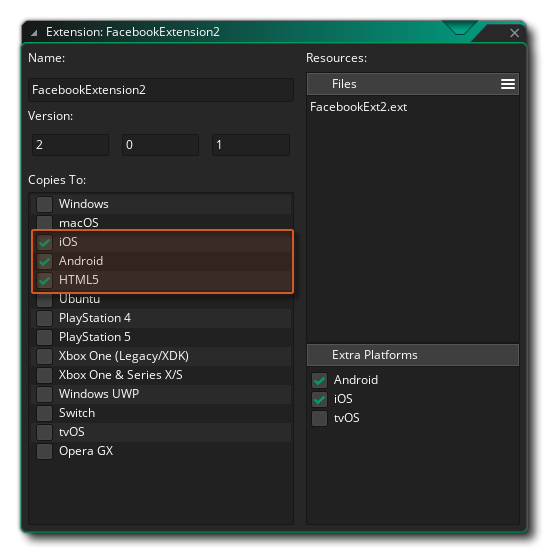
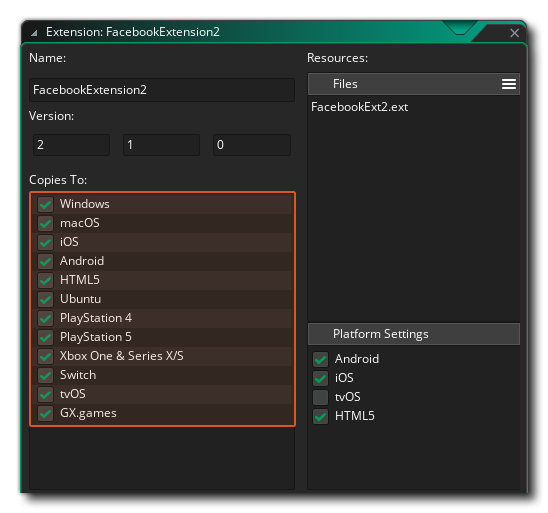
docs(general): Fixes and screenshot updates
* Login Guide page: Added more information on SDK login
* Updated Setup Guide screenshots
* Other small fixes

diff --git a/docs/documentation.js b/docs/documentation.js
@@ -10,7 +10,7 @@
  * 
  * [[Note: This function is only supported on Android, iOS and HTML5.]]
  * 
- * [[Note: If your app asks for more than the default public profile fields and email, Facebook must review it before you release it. See [App Review]](https://developers.facebook.com/docs/resp-plat-initiatives/individual-processes/app-review).]]
+ * [[Note: If your app asks for more than the default public profile fields and email, Facebook must review it before you release it. See [App Review](https://developers.facebook.com/docs/resp-plat-initiatives/individual-processes/app-review).]]
  * 
  * @param {ds_list} permissions The permissions to request
  * 

diff --git a/docs/guide_login.md b/docs/guide_login.md
@@ -8,7 +8,20 @@ The Login functionality of the Facebook extension is supported on all platforms 
 
 ### Android, iOS and HTML5
 
-> https://developers.facebook.com/docs/development/create-an-app/facebook-login-for-games-use-case
+The following page of the Facebook developer documentation describes how to create a Facebook app and set it up to use the login functionality:
+
+> [Facebook Login Use Case](https://developers.facebook.com/docs/development/create-an-app/facebook-login-for-games-use-case)
+
+Once you've set up the app in the App Dashboard you can add code to your project for the login functionality. On the platforms supported by the SDK, you can use the function ${function.fb_login}:
+
+```gml
+var _permissions = ds_list_create();
+ds_list_add(perms, "public_profile", "user_friends");
+fb_login(real(_permissions));
+ds_list_destroy(_permissions);
+```
+
+This function will bring up a login dialog. A ${event.social} is then triggered which provides information about the result.
 
 ### OAuth
 
@@ -42,7 +55,7 @@ if (async_load[? "type"] == "fb_login_oauth") {
 ```
 
 The ${event.social} indicates that the dialog has been invoked. From here on, you can check with your own server periodically to see if it has the token.
-This can be done by, e.g., triggering a ${var.alarm} after a second. In the alarm an HTTP `"POST"` request is made using ${function.http_request}. The state number from the original call ${function.fb_login_oauth} so the server knows which login request this request is for. The code for this may look as follows: 
+This can be done by, e.g., triggering a ${var.alarm} after a second. In the alarm an HTTP `"POST"` request is made using ${function.http_request}. The state number from the original call to ${function.fb_login_oauth} can be used to let the server know which login request this request is for. The code for this may look as follows: 
 ```gml
 /// Alarm 0 Event
 var _headers = ds_map_create();

diff --git a/docs/guide_setup.md b/docs/guide_setup.md
@@ -14,7 +14,7 @@ The first step is to Create an App on Facebook:
 
 After your new app has been created, you'll find more info on the App Dashboard on the steps to take to publish your app. You should take note of the **App ID** and **App Secret** as you'll need them later in GameMaker.
 
-For every platform that you want to use your app on, you'll need to provide additional information.
+For every platform that you want to use your app on you need to add that platform in the App Dashboard and provide additional information.
 
 > See: [Platform Settings](https://developers.facebook.com/docs/development/create-an-app/app-dashboard/platform-settings)
 
